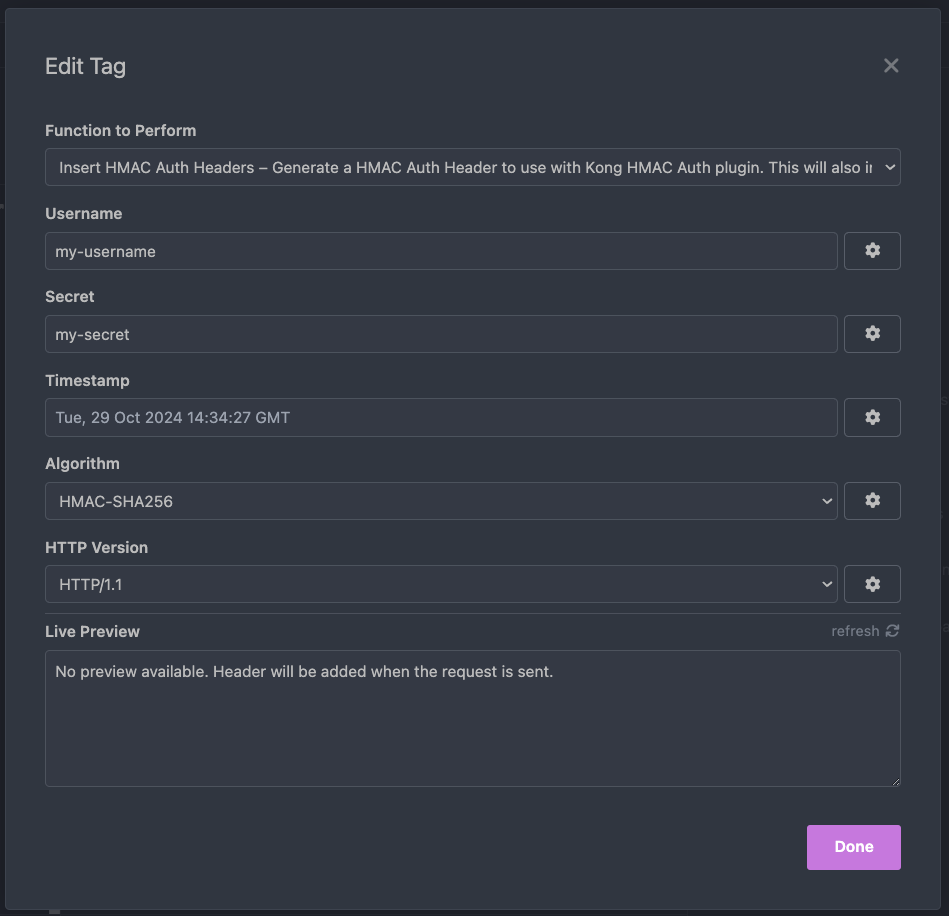
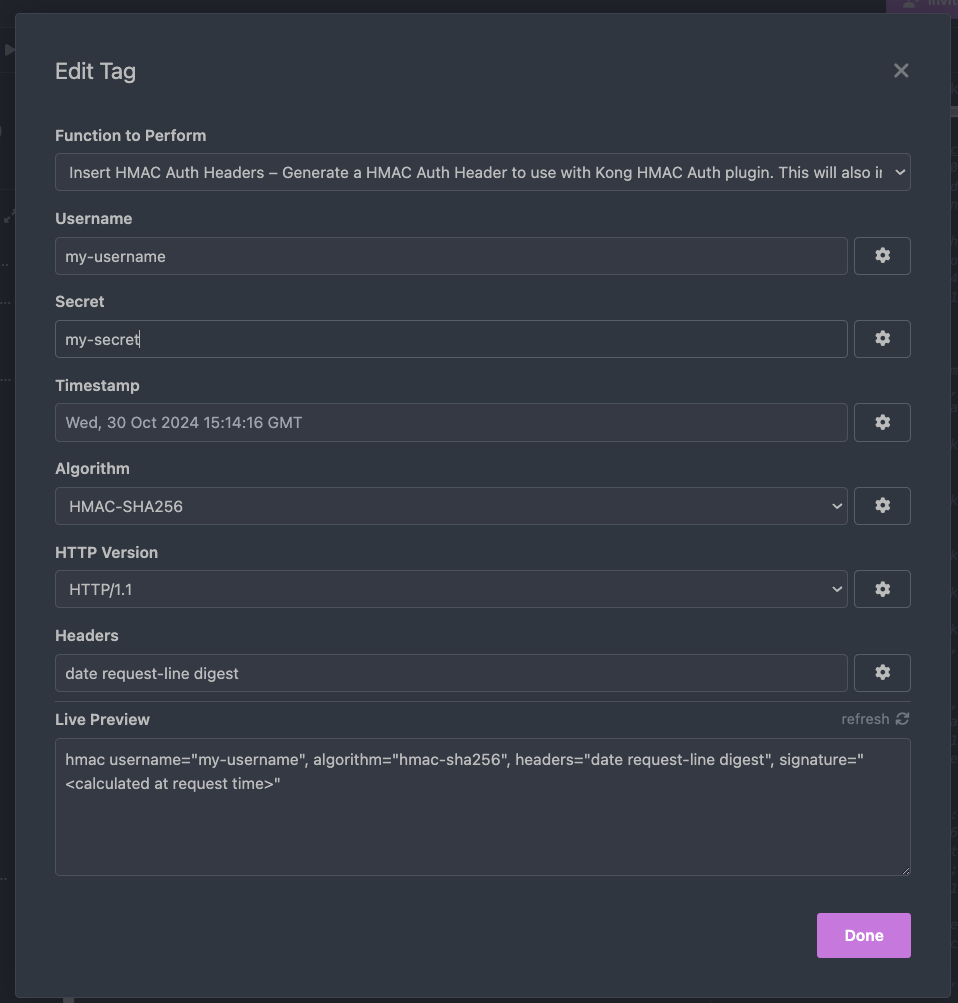
Added preview in tag edit window

diff --git a/main.js b/main.js
@@ -70,8 +70,7 @@ module.exports.templateTags = [{
             displayName: 'Headers',
             description: 'The headers to include in the HMAC Auth request, in lower-case, separated by spaces.',
             type: 'string',
-            defaultValue: 'date request-line digest',
-            placeholder: 'date request-line digest'
+            defaultValue: 'date request-line digest'
         }
     ],
     async run(context, username, secret, timestamp, algorithm, httpVersion, headers) {
@@ -82,7 +81,7 @@ module.exports.templateTags = [{
         await context.store.setItem("httpVer", httpVersion);
         await context.store.setItem("headers", headers);
 
-        return 'No preview available. Header will be added when the request is sent.';
+        return `hmac username="${username}", algorithm="${algorithm}", headers="${headers}", signature="<calculated at request time>"`
     }
 }];
 

diff --git a/README.md b/README.md
@@ -31,6 +31,8 @@ You should now be able to make the call, and the plugin will add the necessary h
 ![](docs/call_headers_example.png)
 
 # Changelog
+### `0.0.5`
+* Added auth header example in the template preview.
 ### `0.0.4`
 * Added header variables that can be used in the signature string.
 ### `0.0.2` 
